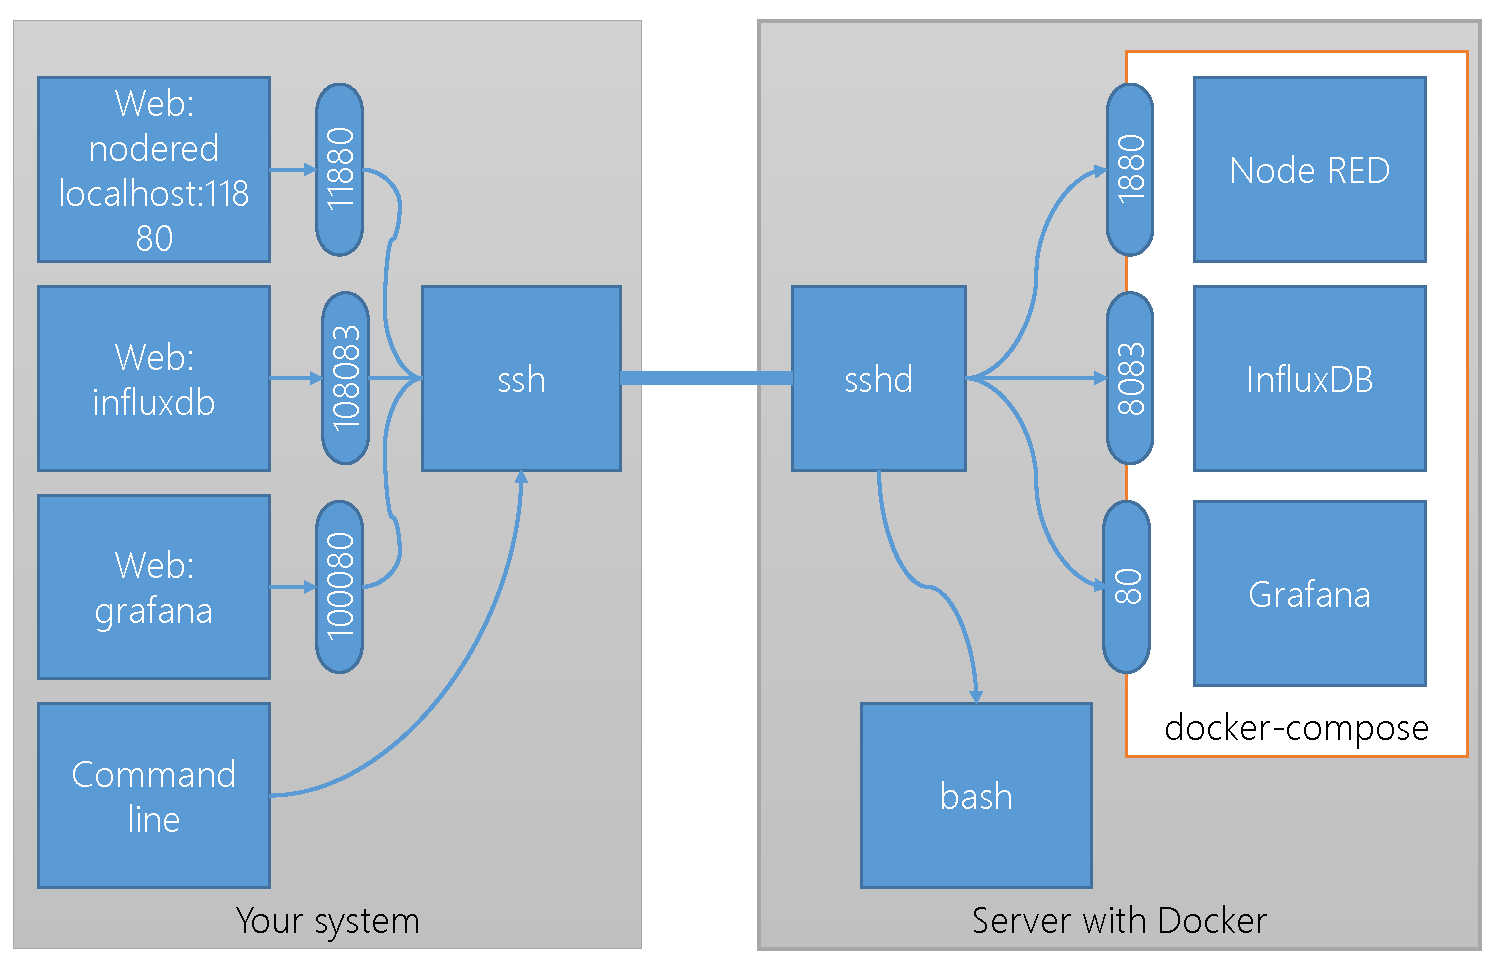
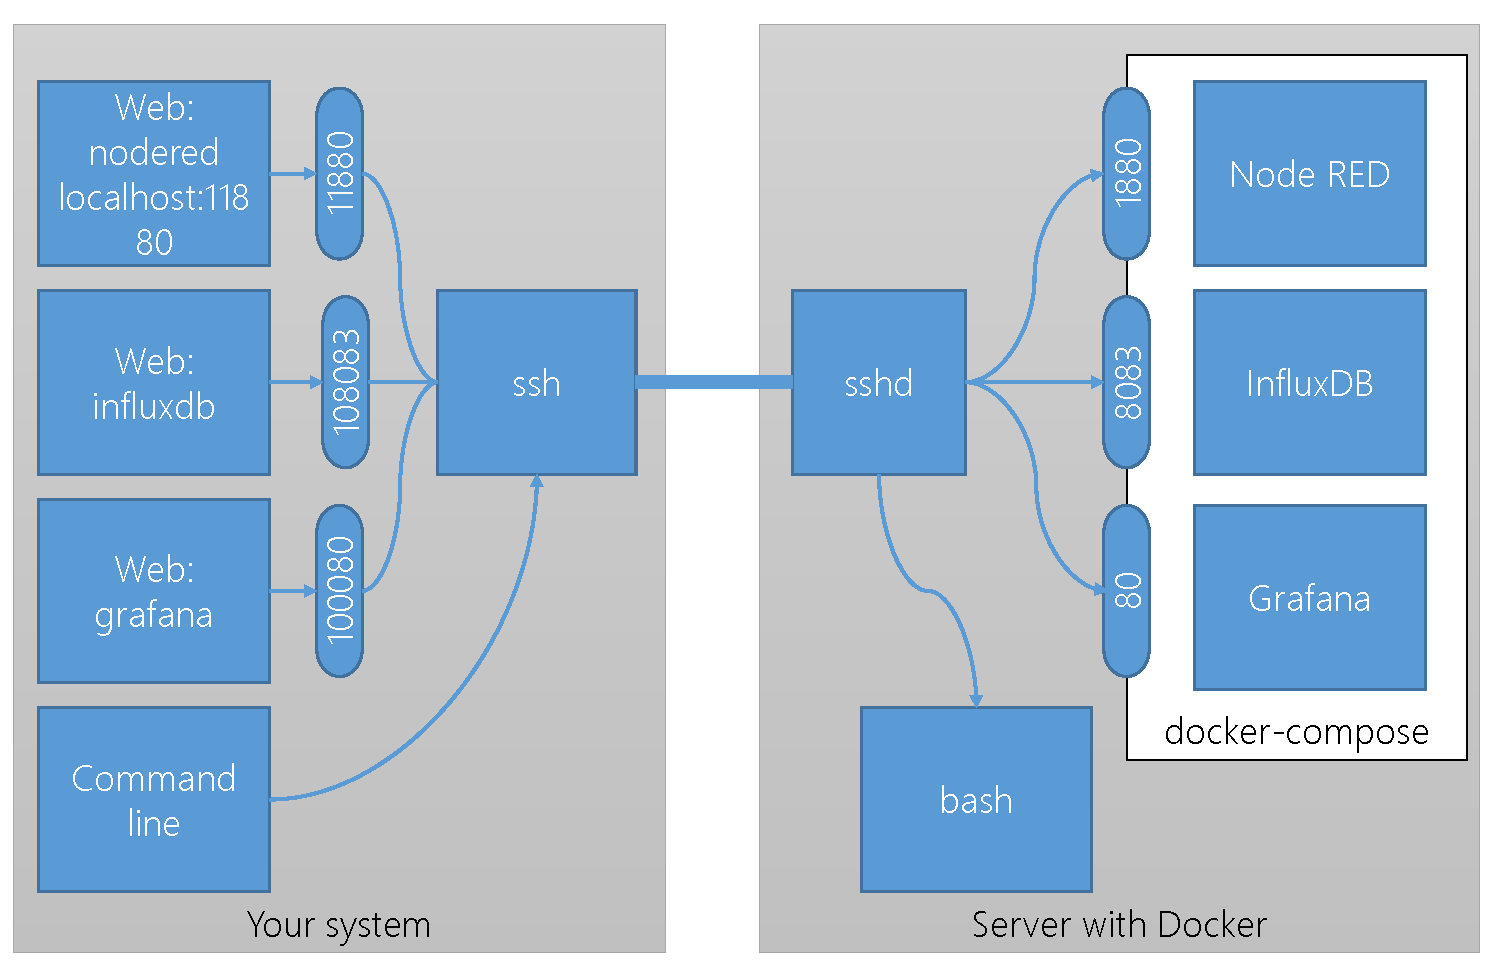
Switch back to .png for portability; and update the png file for readabilty

diff --git a/README.md b/README.md
@@ -30,7 +30,7 @@ IngressDB administrative page | [http://localhost:18083](http://localhost:18083)
 Grafana | [http://localhost:10080](http://localhost:10080)
 
 This can be visualized as below:
-![Connection Architecture using SSH](assets/Connection-architecture.svg)
+![Connection Architecture using SSH](assets/Connection-architecture.png)
 
 ## Assumptions
 
